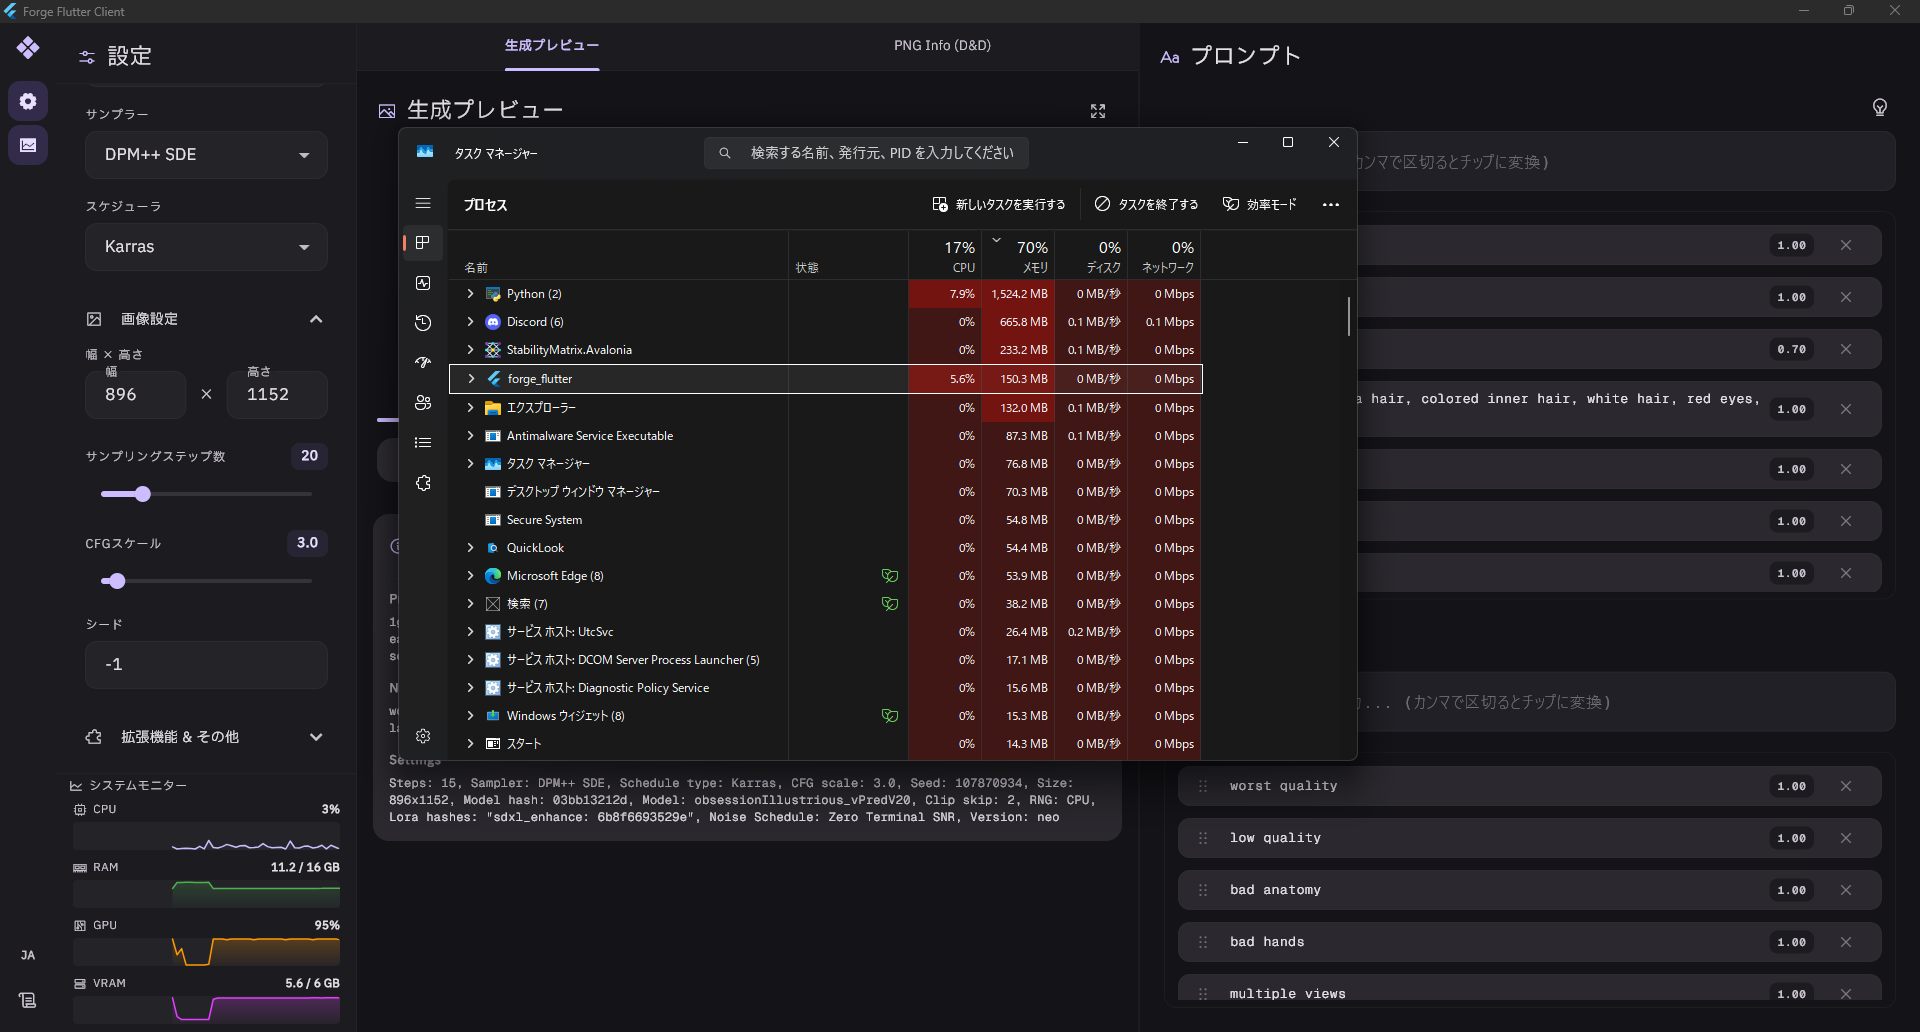
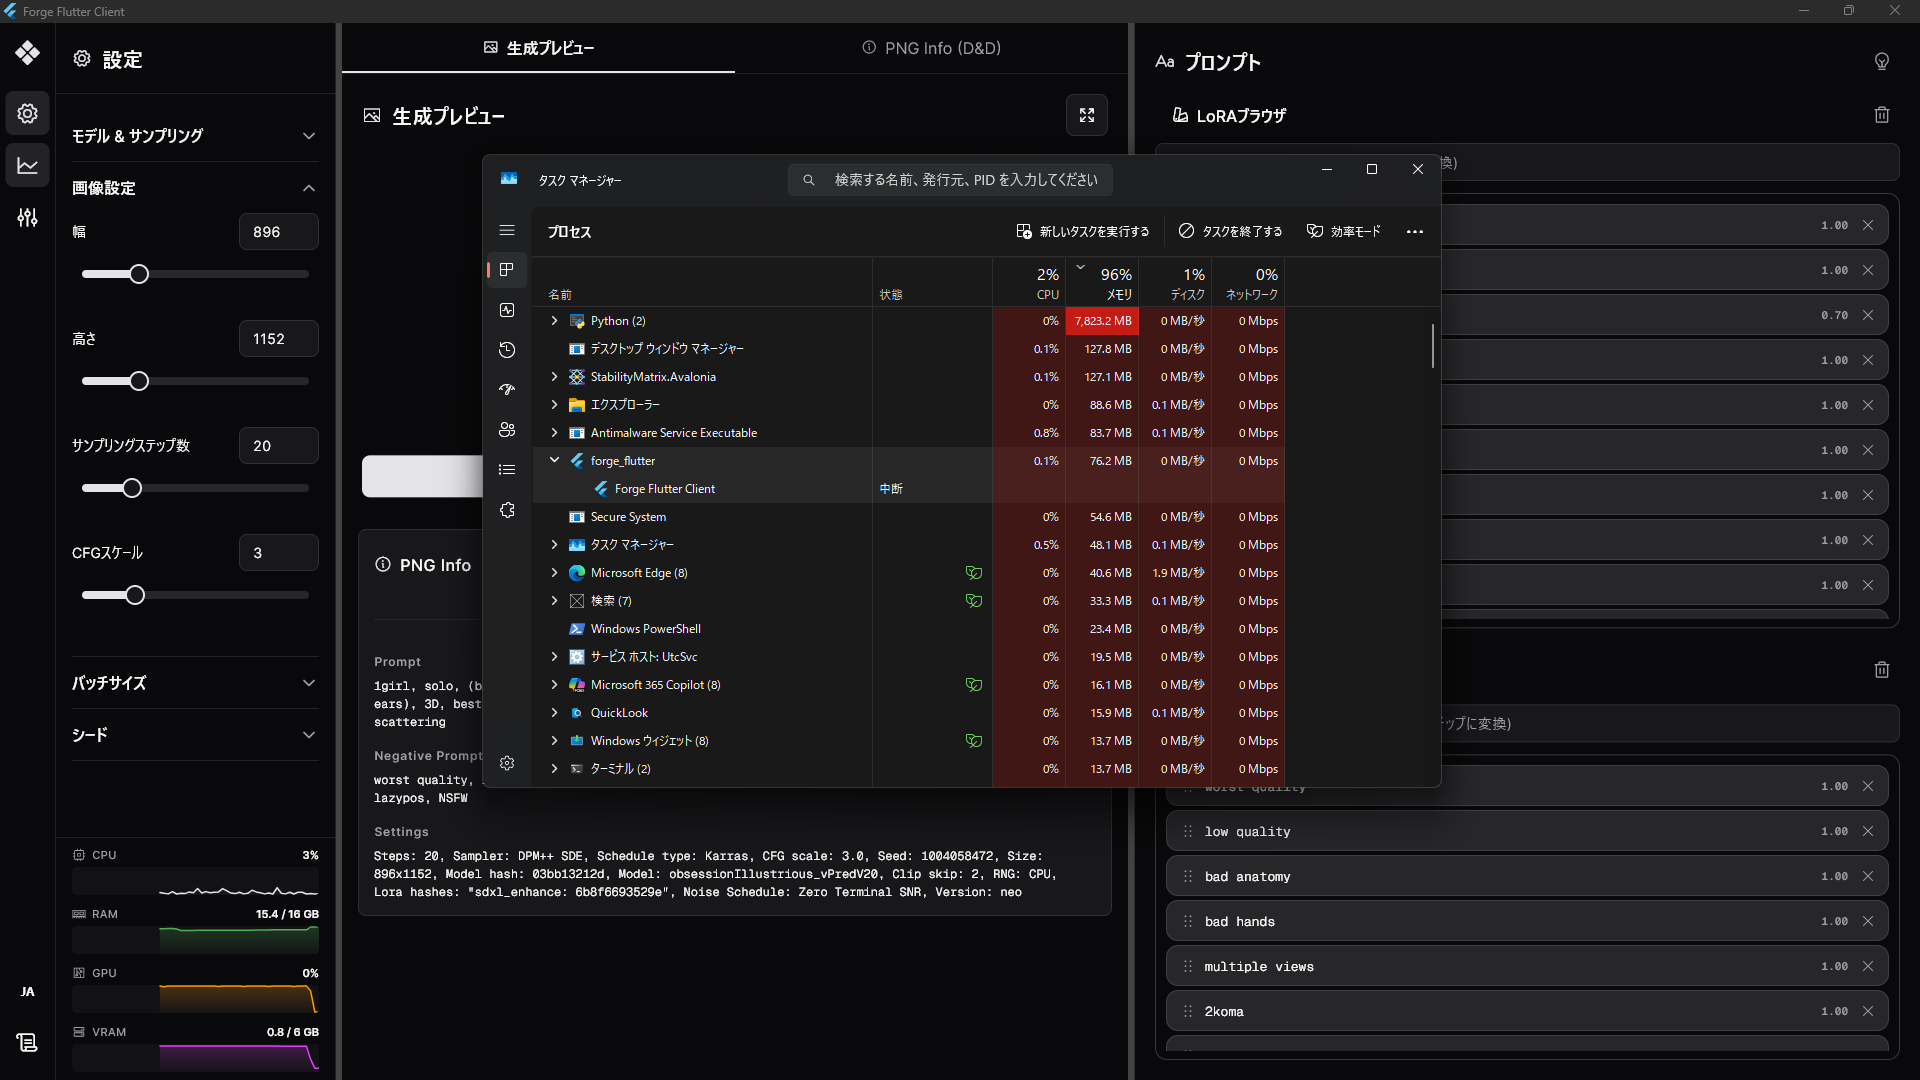
docs: スクリーンショットを変更。READMEのRAM使用量を更新

diff --git a/README.ja.md b/README.ja.md
@@ -26,7 +26,7 @@ Forge Flutter Client は、[Forge Classic Neo](https://github.com/Haoming02/sd-w
 - **コンセプト:** Forge Classic Neo 用の超軽量デスクトップクライアント
 - **目的:** 生成リソース確保のため、メモリ消費を最小限に抑える
 - **パフォーマンス:**
-  - **Forge Flutter Client:** 起動時 約55MB / 生成中 約160MB
+  - **Forge Flutter Client:** 起動直後 約55MB / 生成中 約66MB / 生成直後 約80MB
   - **ブラウザ版 WebUI:** 起動直後 約300MB以上
 
 ## 主要機能

diff --git a/README.md b/README.md
@@ -26,7 +26,7 @@ Forge Flutter Client is an ultra-lightweight desktop application for [Forge Clas
 - **Concept:** An ultra-lightweight desktop app for Forge Classic Neo
 - **Goal:** Minimize memory usage to free up resources for generation
 - **Performance:**
-  - **Forge Flutter Client:** ~55 MB (Startup) / ~160 MB (Processing)
+  - **Forge Flutter Client:** ~55 MB (Startup) / ~66 MB (Processing) / ~80 MB (Post-generation)
   - **Browser WebUI:** ~300 MB+ (Startup)
 
 ## Key Features
